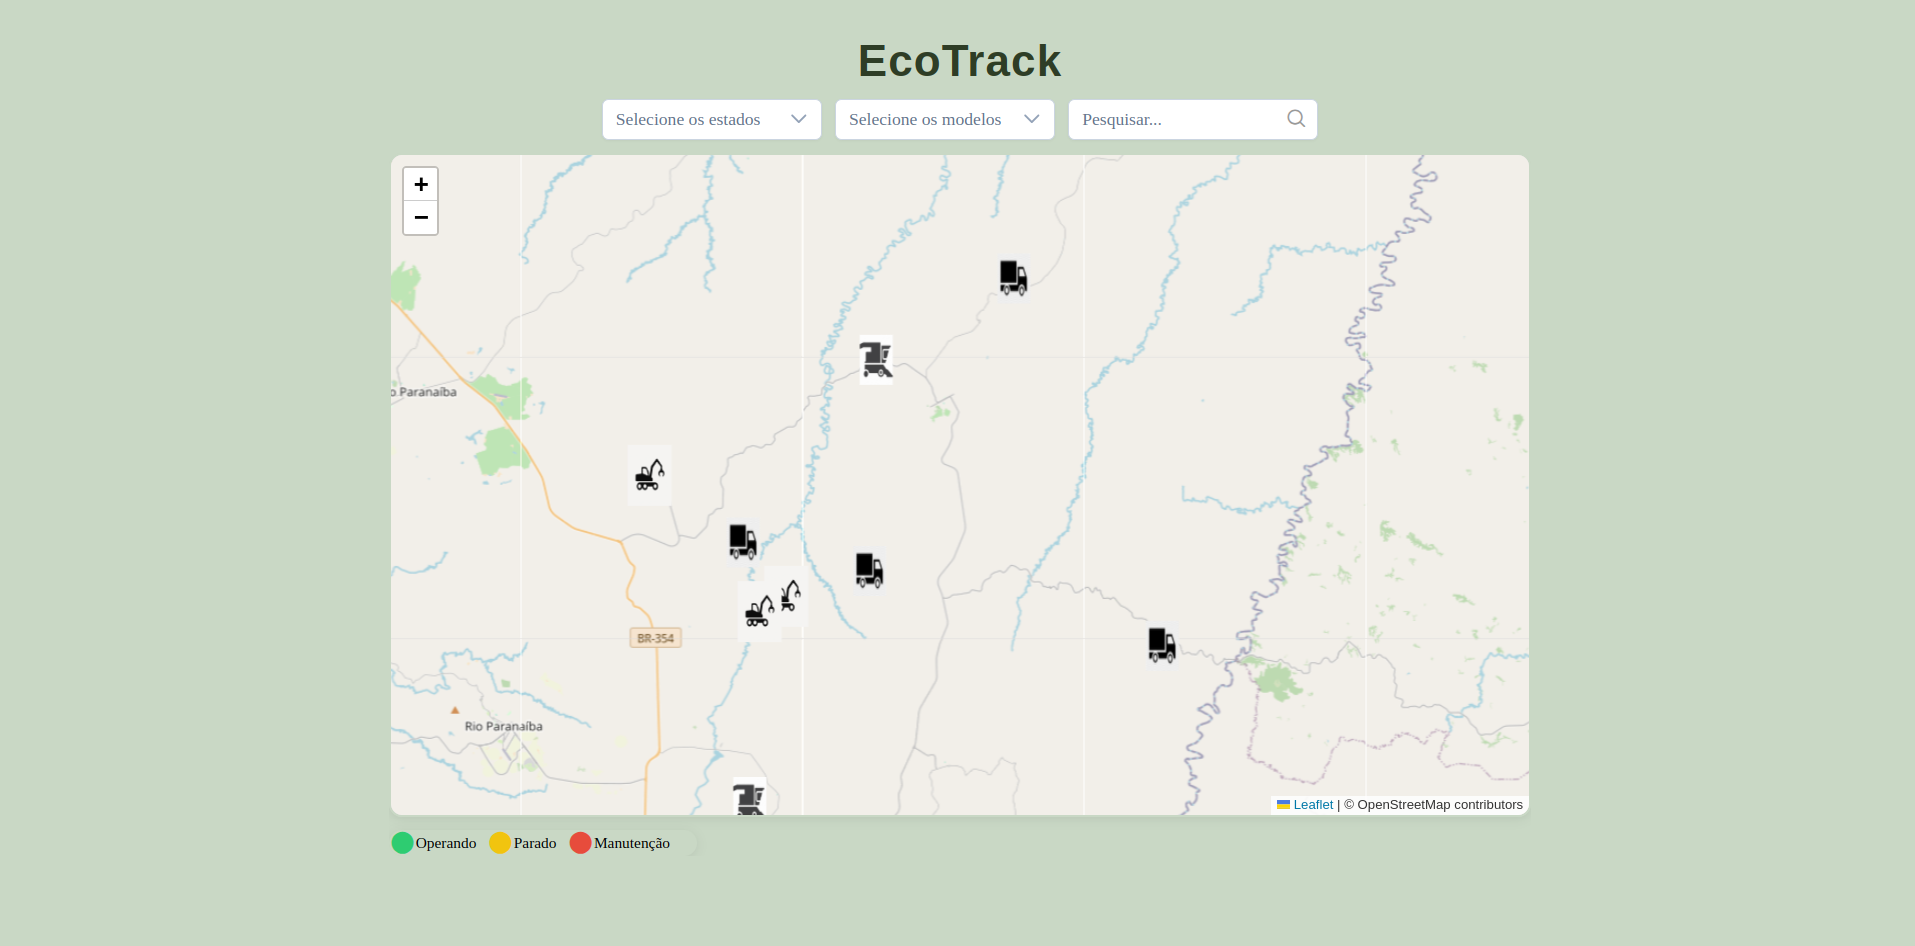
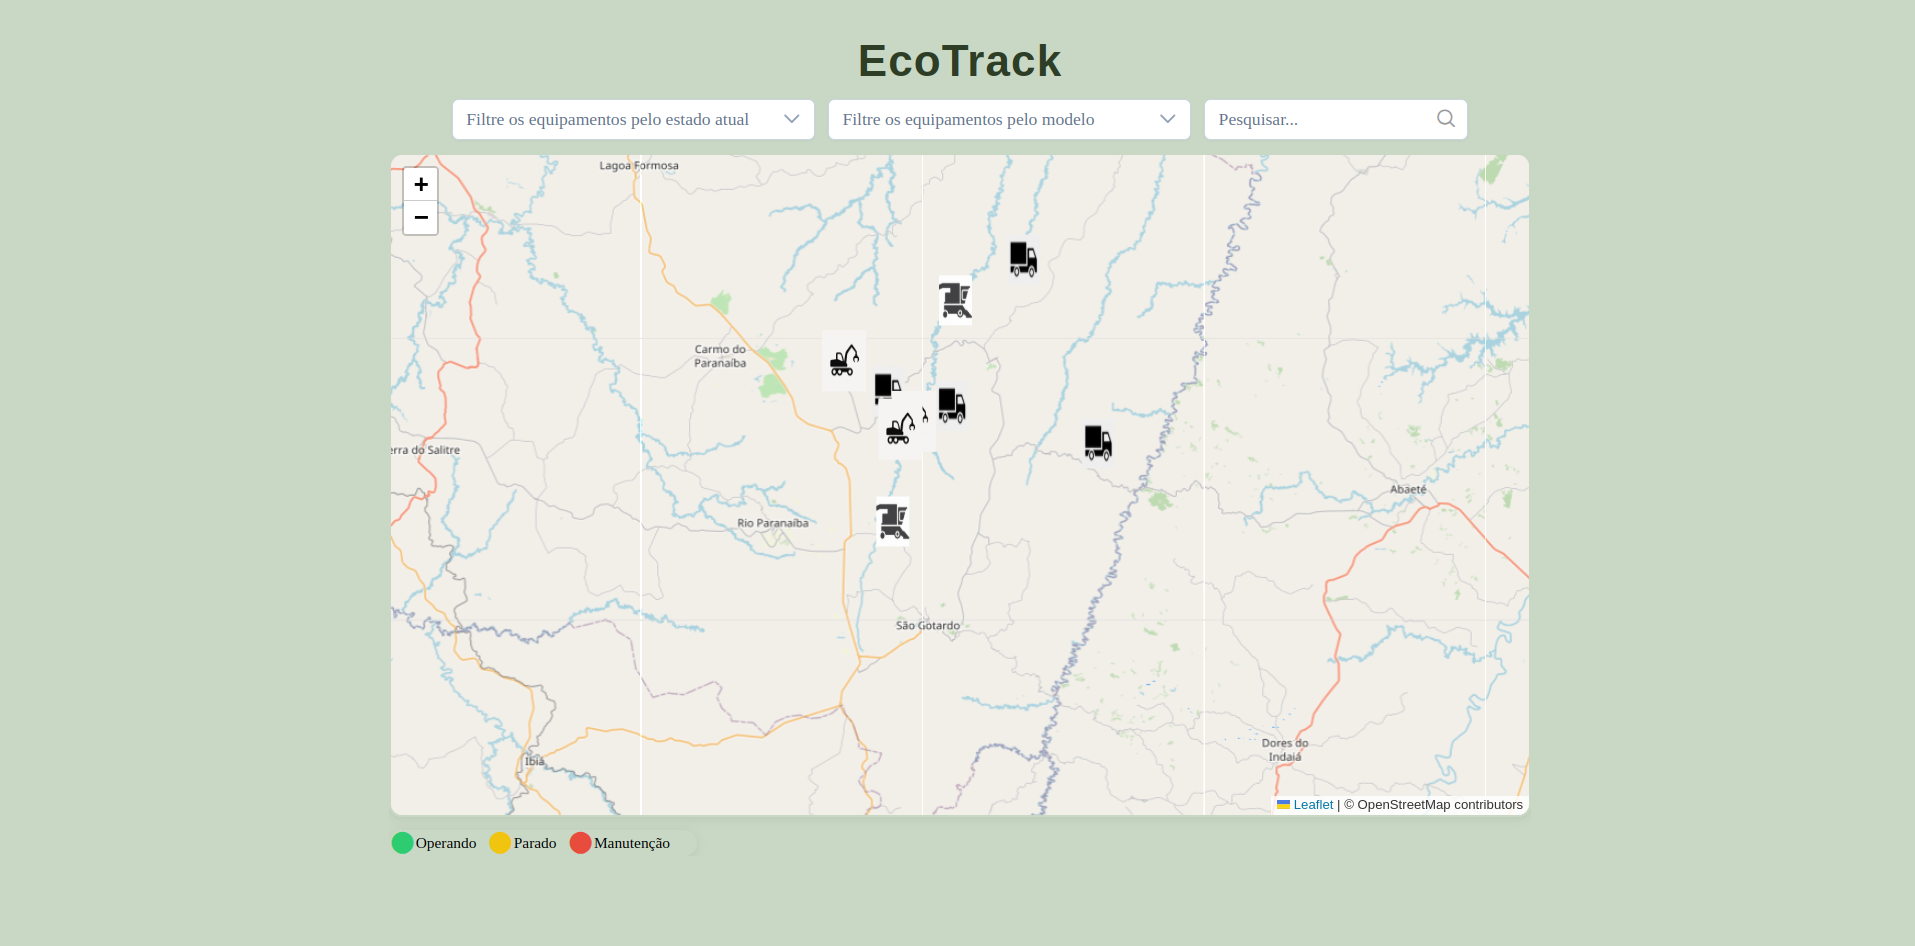
fix: image readme

diff --git a/Desafio Aiko/src/page/Dashboard.vue b/Desafio Aiko/src/page/Dashboard.vue
@@ -75,7 +75,7 @@
           :options="dataStateOption"
           optionLabel="name"
           class="multiselect"
-          placeholder="Selecione os estados"
+          placeholder="Filtre os equipamentos pelo estado atual"
           :maxSelectedLabels="2"
         />
       </section>
@@ -85,7 +85,7 @@
           :options="dataModelOption"
           optionLabel="name"
           class="multiselect"
-          placeholder="Selecione os modelos"
+          placeholder="Filtre os equipamentos pelo modelo"
           :maxSelectedLabels="2"
         />
       </section>
@@ -94,7 +94,7 @@
           type="text"
           placeholder="Pesquisar..."
           v-model="valueSearch"
-          class="search-input"
+          class="search-input multiselect"
           @update:model-value="(newValue: string) => (valueSearch = newValue)"
         />
         <i class="pi pi-search search-icon"></i>

diff --git a/Desafio Aiko/src/assets/styles/_extensions.scss b/Desafio Aiko/src/assets/styles/_extensions.scss
@@ -84,7 +84,7 @@
 }
 
 .multiselect {
-  width: 200px;
+  width: 330px;
   margin-right: 12px;
 }
 
